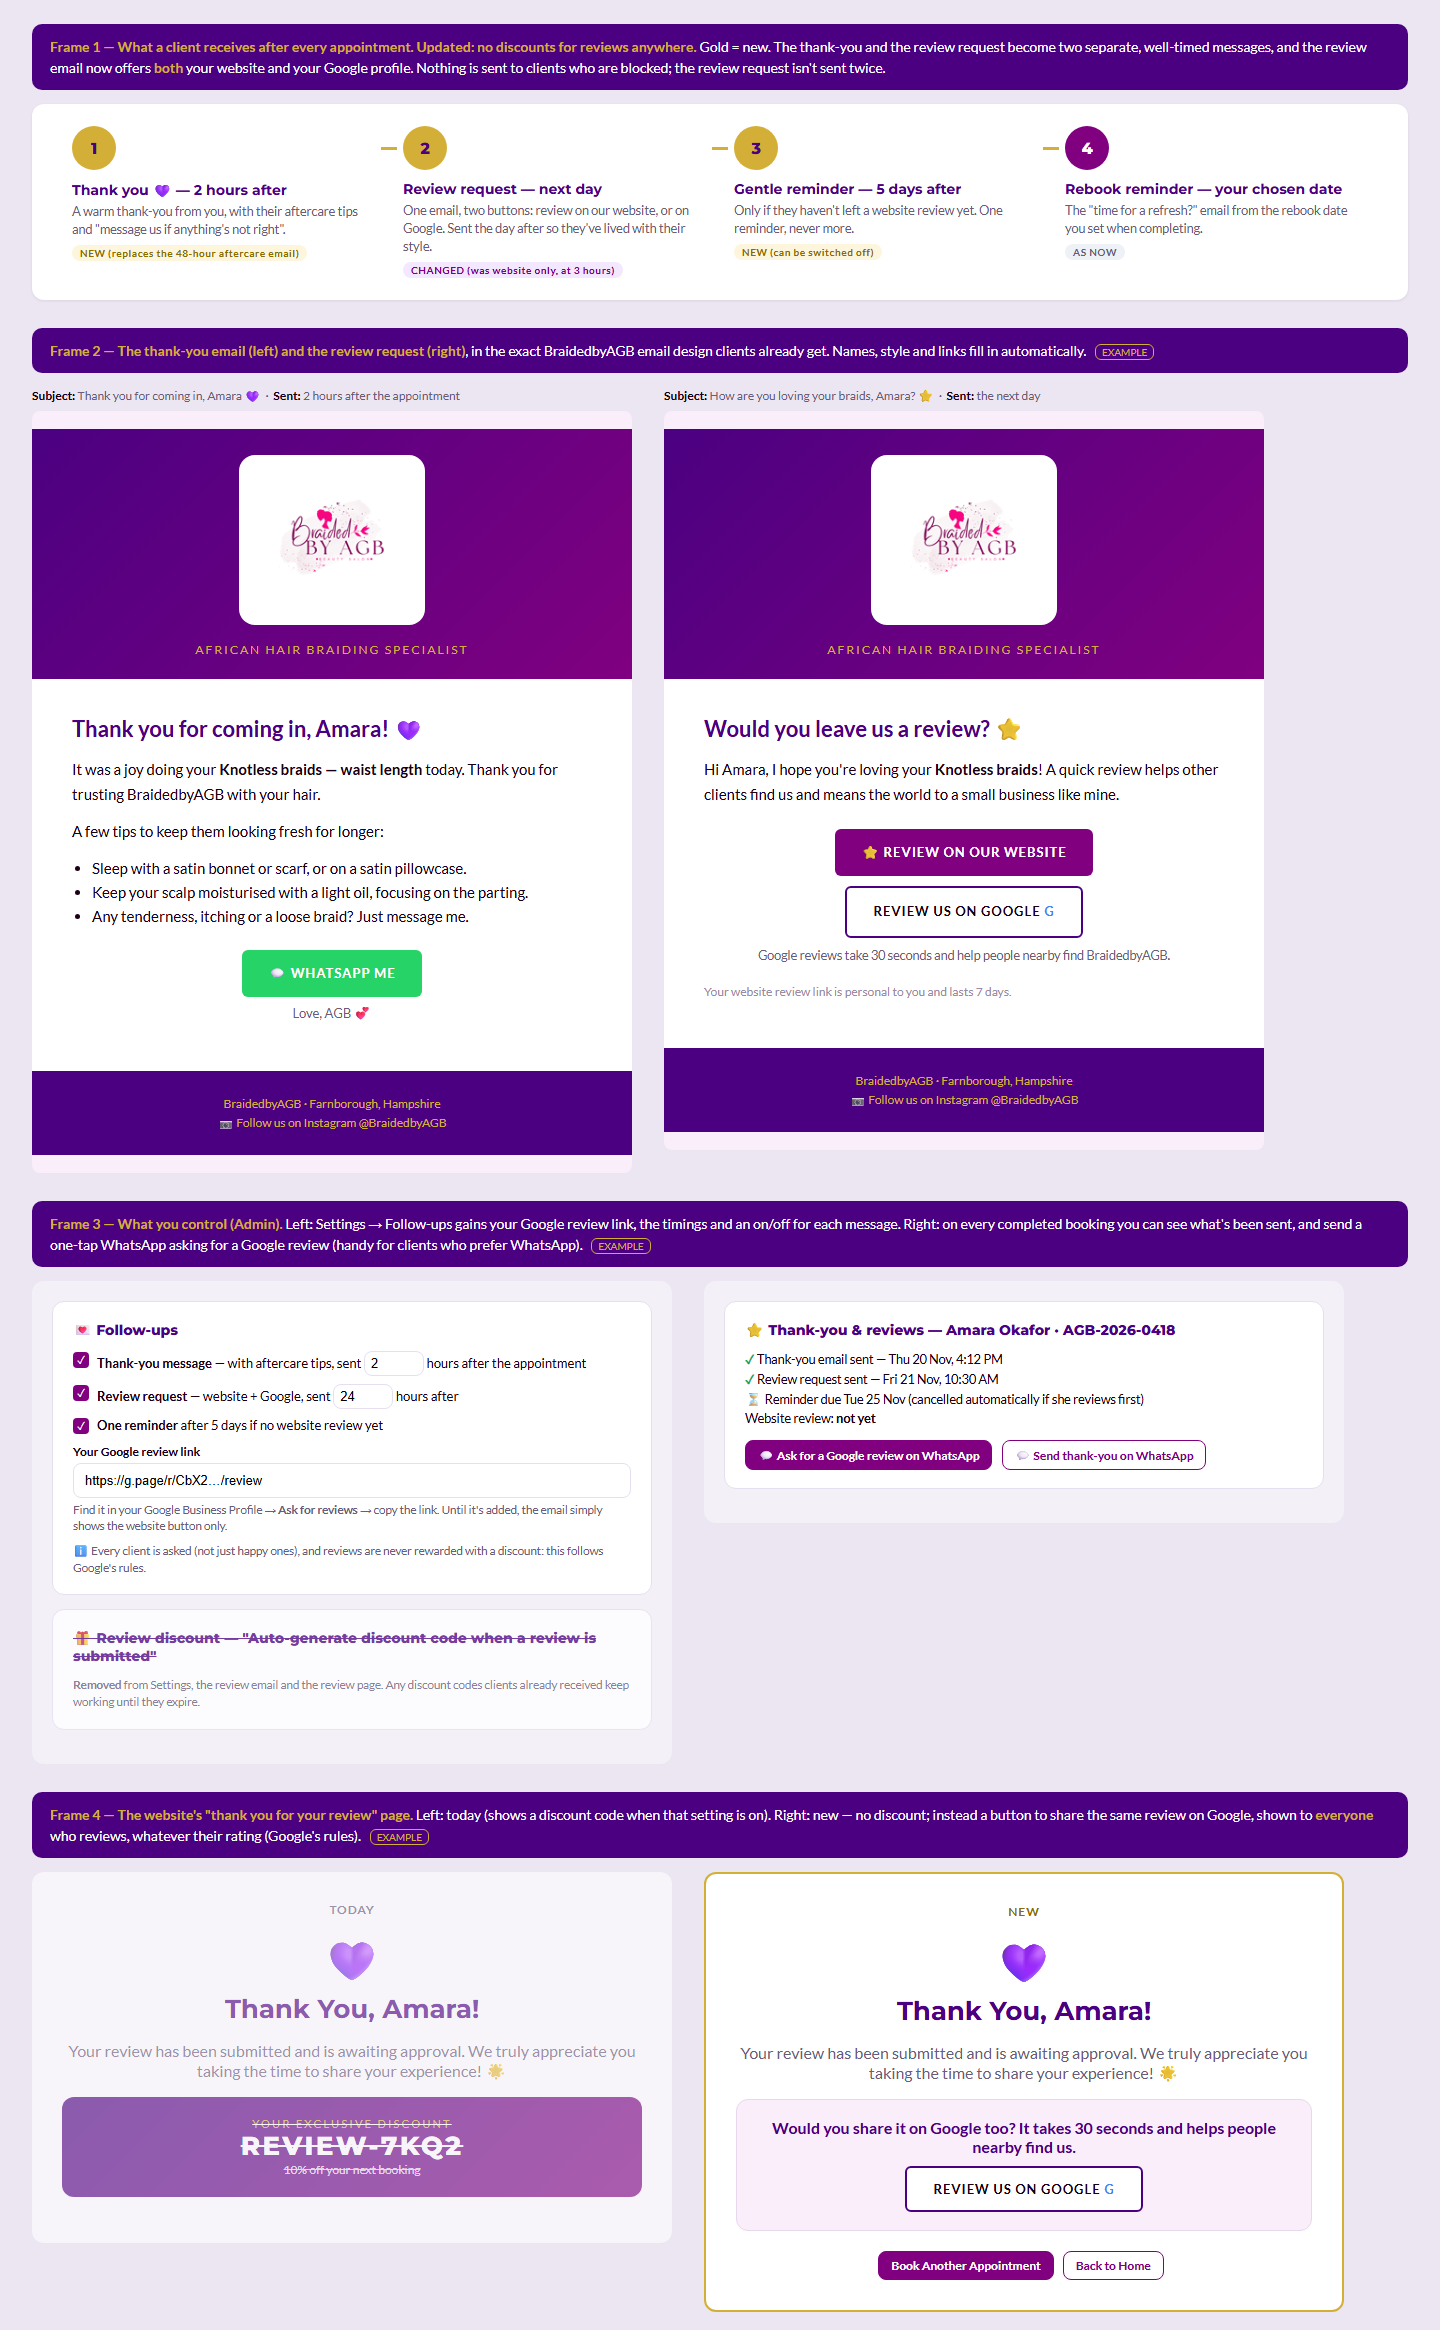
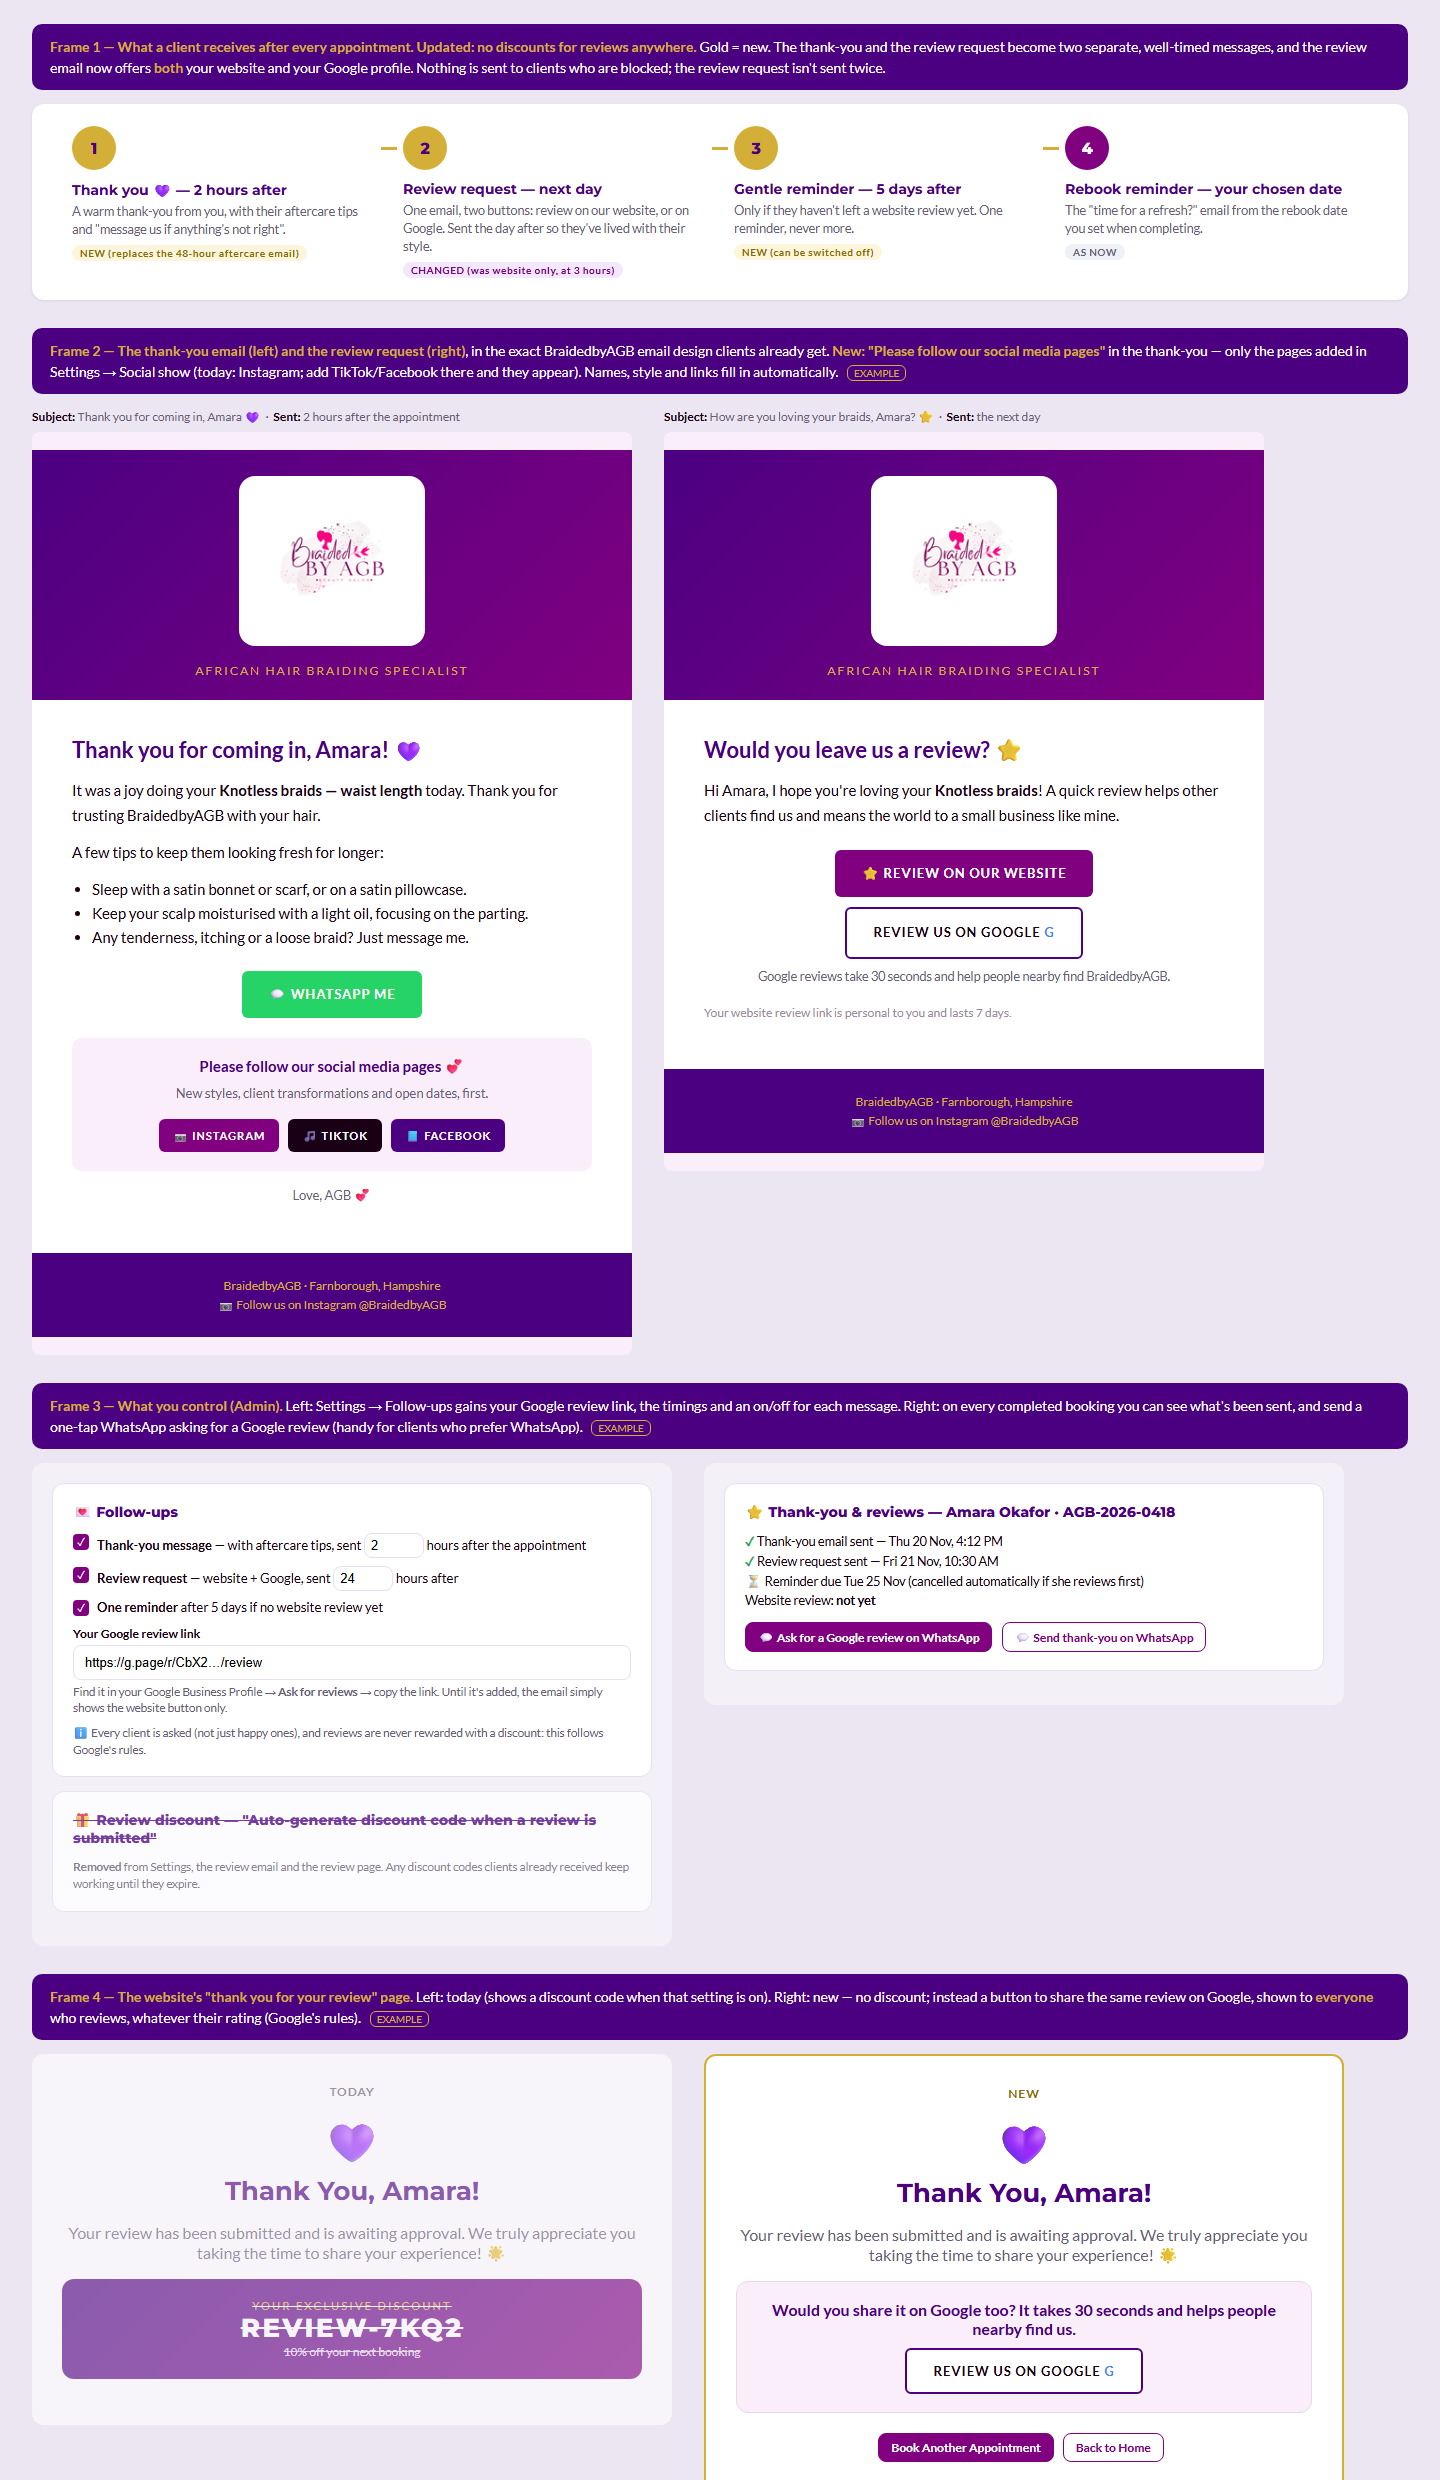
Mockup v3: 'Please follow our social media pages' in the thank-you email
Claude-Session: https://claude.ai/code/session_0189yjWKp17p5gpKMEDEi1gT

Changed region(s): [[0.0, 0.0, 1.0, 1.0]]

diff --git a/docs/mockups/2026-11-thankyou-reviews.html b/docs/mockups/2026-11-thankyou-reviews.html
@@ -61,7 +61,7 @@
   <div class="step"><div class="dot">4</div><h4>Rebook reminder — your chosen date</h4><p>The "time for a refresh?" email from the rebook date you set when completing.</p><span class="tag same">AS NOW</span></div>
 </div>
 
-<div class="cap"><b>Frame 2 — The thank-you email (left) and the review request (right)</b>, in the exact BraidedbyAGB email design clients already get. Names, style and links fill in automatically. <span class="ex">EXAMPLE</span></div>
+<div class="cap"><b>Frame 2 — The thank-you email (left) and the review request (right)</b>, in the exact BraidedbyAGB email design clients already get. <b>New: "Please follow our social media pages"</b> in the thank-you — only the pages added in Settings → Social show (today: Instagram; add TikTok/Facebook there and they appear). Names, style and links fill in automatically. <span class="ex">EXAMPLE</span></div>
 <div class="row">
   <div>
     <div class="meta"><b>Subject:</b> Thank you for coming in, Amara 💜 &nbsp;·&nbsp; <b>Sent:</b> 2 hours after the appointment</div>
@@ -77,6 +77,13 @@
           <li>Any tenderness, itching or a loose braid? Just message me.</li>
         </ul>
         <p style="text-align:center;margin:22px 0 6px"><a class="cta-btn" style="background:#25D366">💬 WhatsApp me</a></p>
+        <div style="background:#F9EEF9;border-radius:10px;padding:16px 18px;margin:20px 0 14px;text-align:center">
+          <p style="margin:0 0 4px;font-weight:700;color:#4B0082;font-size:15px">Please follow our social media pages 💕</p>
+          <p style="margin:0 0 12px;font-size:13px;color:#6b5c78">New styles, client transformations and open dates, first.</p>
+          <a class="cta-btn" style="padding:9px 14px;font-size:11px;margin:3px">📷 Instagram</a>
+          <a class="cta-btn" style="padding:9px 14px;font-size:11px;margin:3px;background:#1A0014">🎵 TikTok</a>
+          <a class="cta-btn" style="padding:9px 14px;font-size:11px;margin:3px;background:#4B0082">📘 Facebook</a>
+        </div>
         <p style="font-size:13px;color:#6b5c78;text-align:center">Love, AGB 💕</p>
       </div>
       <div class="footer"><p>BraidedbyAGB · Farnborough, Hampshire</p><p>📷 Follow us on Instagram @BraidedbyAGB</p></div>
